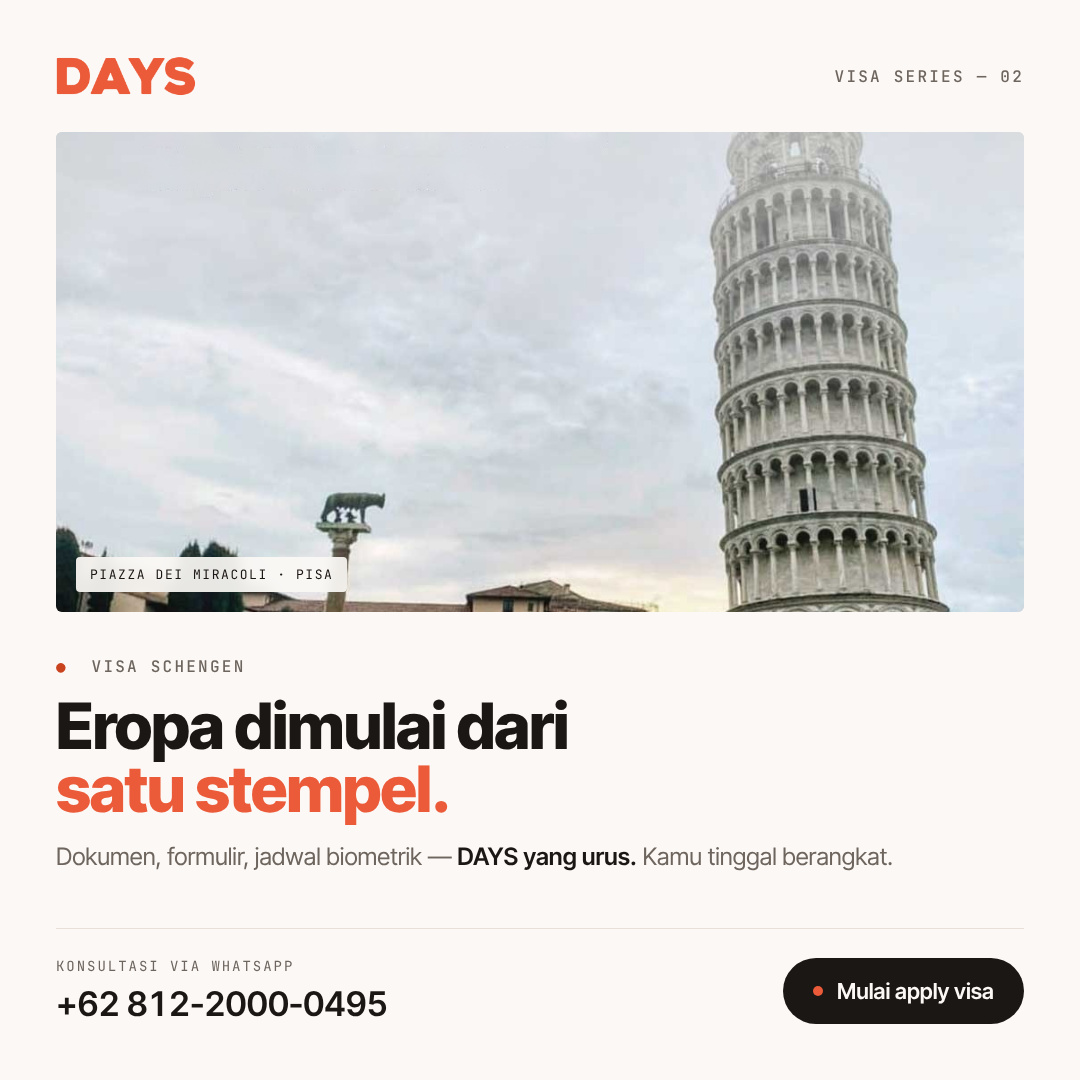
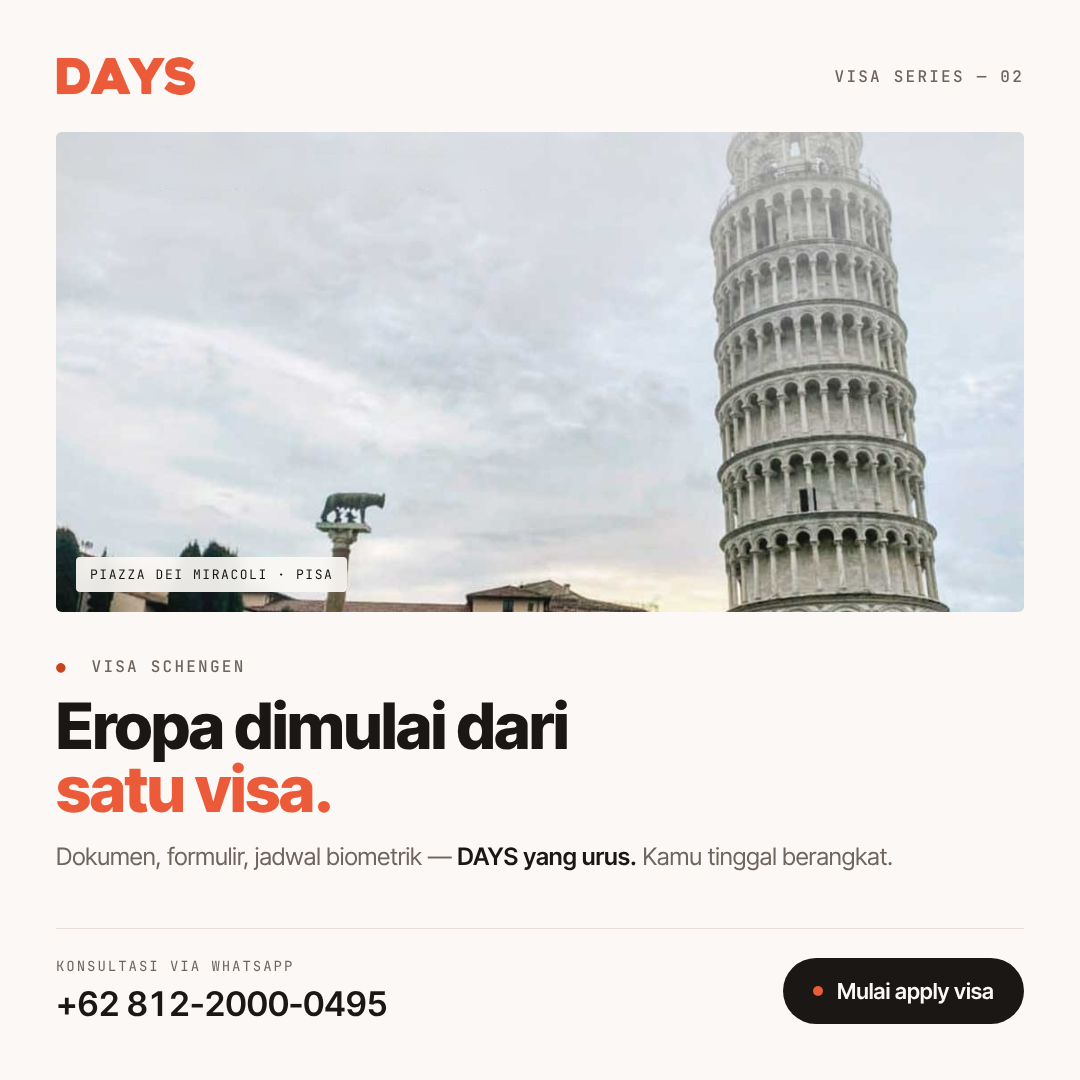
Schengen visuals: headline now 'Eropa dimulai dari satu visa'
Claude-Session: https://claude.ai/code/session_01Eb5aT6ze4JeyNUzcmVzEmL

Changed region(s): [[0.1833, 0.7028, 0.4278, 0.7639]]

diff --git a/social/visa-campaign/src/posts.html b/social/visa-campaign/src/posts.html
@@ -123,7 +123,7 @@
   </div>
   <div class="copy">
     <p class="eyebrow"><b>●</b>&nbsp; Visa Schengen</p>
-    <h1>Eropa dimulai dari<br><em>satu stempel.</em></h1>
+    <h1>Eropa dimulai dari<br><em>satu visa.</em></h1>
     <p class="sub">Dokumen, formulir, jadwal biometrik — <strong>DAYS yang urus.</strong> Kamu tinggal berangkat.</p>
   </div>
   <div class="foot">
@@ -204,7 +204,7 @@
   </div>
   <div class="copy">
     <p class="eyebrow"><b>●</b>&nbsp; Visa Schengen</p>
-    <h1>Eropa dimulai dari <em>satu stempel.</em></h1>
+    <h1>Eropa dimulai dari <em>satu visa.</em></h1>
     <p class="sub">Cek dokumen, isi formulir, sampai jadwal biometrik — <strong>DAYS yang urus prosesnya.</strong></p>
   </div>
   <div class="foot">
